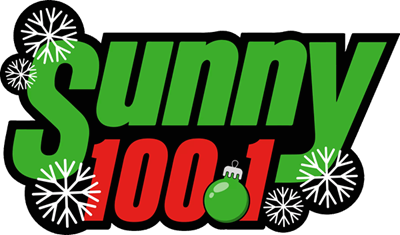
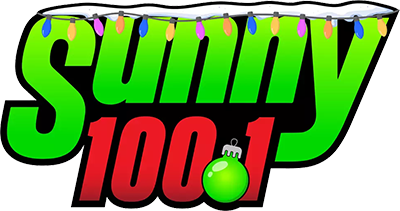
ho ho ho

diff --git a/web/stations/stations-america.js b/web/stations/stations-america.js
@@ -4846,7 +4846,7 @@ var stations = {
         },
         {
             name: "Sunny 99.9",
-            logo: "stations/images-america/texas/el_paso/Sunny 99.9.png",
+            logo: "stations/images-america/texas/el_paso/Sunny 99.9_christmas.png",
             url: "https://stream.revma.ihrhls.com/zc3188/hls.m3u8"
         },
         {
@@ -5388,7 +5388,7 @@ var stations = {
         },
         {
             name: "KOOL 104.5",
-            logo: "stations/images-america/farmington/KOOL 104.5.png",
+            logo: "stations/images-america/farmington/KOOL 104.5_christmas.png",
             url: "https://stream.revma.ihrhls.com/zc5088/hls.m3u8"
         },
         {
@@ -21854,7 +21854,7 @@ var stations_c2c = {
         },
         {
             name: "Sunny 98.5",
-            logo: "stations/images-america/c2c/panama_city_fl/Sunny 98.5.png",
+            logo: "stations/images-america/c2c/panama_city_fl/Sunny 98.5_christmas.png",
             url: "https://stream.revma.ihrhls.com/zc2800/hls.m3u8"
         },
         {
@@ -22138,7 +22138,7 @@ var stations_c2c = {
         },
         {
             name: "103Q",
-            logo: "stations/images-america/c2c/jacksonville_fl/103Q.png",
+            logo: "stations/images-america/c2c/jacksonville_fl/103Q_christmas.png",
             url: "https://stream.revma.ihrhls.com/zc6859/hls.m3u8"
         },
         {
@@ -23934,7 +23934,7 @@ var stations_c2c = {
         },
         {
             name: "104.3 WBBQ",
-            logo: "stations/images-america/c2c/augusta_ga/104.3 WBBQ.png",
+            logo: "stations/images-america/c2c/augusta_ga/104.3 WBBQ_christmas.png",
             url: "https://stream.revma.ihrhls.com/zc757/hls.m3u8"
         },
         {
@@ -24016,7 +24016,7 @@ var stations_c2c = {
         },
         {
             name: "Sunny 100.1",
-            logo: "stations/images-america/c2c/columbus_ga/Sunny 100.1.png",
+            logo: "stations/images-america/c2c/columbus_ga/Sunny 100.1_christmas.png",
             url: "https://stream.revma.ihrhls.com/zc781/hls.m3u8"
         },
         {
@@ -24205,7 +24205,7 @@ var stations_c2c = {
         },
         {
             name: "98.7 The River",
-            logo: "stations/images-america/c2c/savannah_ga/98.7 The River.png",
+            logo: "stations/images-america/c2c/savannah_ga/98.7 The River_christmas.png",
             url: "https://stream.revma.ihrhls.com/zc797/hls.m3u8"
         },
         {
@@ -24312,7 +24312,7 @@ var stations_c2c = {
         },
         {
             name: "Magic 98.1",
-            logo: "stations/images-america/c2c/statesboro_ga/Magic 98.1.png",
+            logo: "stations/images-america/c2c/statesboro_ga/Magic 98.1png",
             url: "https://ice64.securenetsystems.net/WEDB"
         },
         {
@@ -25359,7 +25359,7 @@ var stations_c2c = {
         },
         {
             name: "107.3 WSJY",
-            logo: "stations/images-america/c2c/madison_wi/107.3 WSJY.png",
+            logo: "stations/images-america/c2c/madison_wi/107.3 WSJY_christmas.png",
             url: "https://ats-radio.herokuapp.com/index.php?ats=https://live.wostreaming.net/direct/magnumbroadcasting-wsjyfmaac-ibc1"
         },
         {
@@ -26150,7 +26150,7 @@ var stations_c2c = {
         },
         {
             name: "Mix 96",
-            logo: "stations/images-america/c2c/davenport_ia/Mix 96.png",
+            logo: "stations/images-america/c2c/davenport_ia/Mix 96_christmas.png",
             url: "https://stream.revma.ihrhls.com/zc3658/hls.m3u8"
         },
         {
@@ -28534,7 +28534,7 @@ var stations_c2c = {
         },
         {
             name: "94.1 The Wave",
-            logo: "stations/images-america/c2c/bangor_me/94.1 The Wave.png",
+            logo: "stations/images-america/c2c/bangor_me/94.1 The Wave_christmas.png",
             url: "https://ais-sa1.streamon.fm/7672_48k.aac"
         },
         {
@@ -29603,7 +29603,7 @@ var stations_c2c = {
         },
         {
             name: "100.3 WNIC",
-            logo: "stations/images-america/c2c/detroit_mi/100.3 WNIC.png",
+            logo: "stations/images-america/c2c/detroit_mi/100.3 WNIC_christmas.png",
             url: "https://stream.revma.ihrhls.com/zc1153/hls.m3u8"
         },
         {
@@ -29835,7 +29835,7 @@ var stations_c2c = {
         },
         {
             name: "Star 105.7",
-            logo: "stations/images-america/c2c/grand_rapids_mi/Star 105.7.png",
+            logo: "stations/images-america/c2c/grand_rapids_mi/Star 105.7_christmas.png",
             url: "https://stream.revma.ihrhls.com/zc1169/hls.m3u8"
         },
         {
@@ -30494,7 +30494,7 @@ var stations_c2c = {
         },
         {
             name: "KOOL 108",
-            logo: "stations/images-america/c2c/minneapolis_mn/Kool 108.png",
+            logo: "stations/images-america/c2c/minneapolis_mn/Kool 108_christmas.png",
             url: "https://stream.revma.ihrhls.com/zc1217/hls.m3u8"
         },
         {
@@ -31199,10 +31199,10 @@ var stations_c2c = {
         },
         {
             name: "Mix 98.7",
-            logo: "stations/images-america/c2c/jackson_ms/Mix 98.7.png",
+            logo: "stations/images-america/c2c/jackson_ms/Mix 98.7_christmas.png",
             url: "https://live.wostreaming.net/manifest/newsouth-wjkkfmaac-ibc3"
-        },
         {
+        },
             name: "99 Jams",
             logo: "stations/images-america/c2c/jackson_ms/99 Jams.png",
             url: "https://ats-radio.herokuapp.com/index.php?ats=https://live.wostreaming.net/direct/alphacorporate-wjmifmaac-ibc4"
@@ -32182,7 +32182,7 @@ var stations_c2c = {
         },
         {
             name: "105.9 KGBX",
-            logo: "stations/images-america/c2c/springfield_mo/105.9 KGBX.png",
+            logo: "stations/images-america/c2c/springfield_mo/105.9 KGBX_christmas.png",
             url: "https://stream.revma.ihrhls.com/zc1261/hls.m3u8"
         },
         {
@@ -32795,7 +32795,7 @@ var stations_c2c = {
         },
         {
             name: "98.3 TRY",
-            logo: "stations/images-america/c2c/albany_ny/98.3 TRY.png",
+            logo: "stations/images-america/c2c/albany_ny/98.3 TRY_christmas.png",
             url: "https://stream.revma.ihrhls.com/zc1437/hls.m3u8"
         },
         {
@@ -33614,7 +33614,7 @@ var stations_c2c = {
         },
         {
             name: "Q92",
-            logo: "stations/images-america/c2c/poughkeepsie_ny/Q92.png",
+            logo: "stations/images-america/c2c/poughkeepsie_ny/Q92_christmas.png",
             url: "https://stream.revma.ihrhls.com/zc1489/hls.m3u8"
         },
         {
@@ -35147,7 +35147,7 @@ var stations_c2c = {
         },
         {
             name: "104.3 Cities FM",
-            logo: "stations/images-america/c2c/grand_forks_nd/104.3 Cities FM.png",
+            logo: "stations/images-america/c2c/grand_forks_nd/104.3 Cities FM_christmas.png",
             url: "https://playerservices.streamtheworld.com/api/livestream-redirect/KZLTFMAAC_SC"
         },
         {
@@ -35679,7 +35679,7 @@ var stations_c2c = {
         },
         {
             name: "93.3 The Bus",
-            logo: "stations/images-america/c2c/columbus_oh/93.3 The Bus.png",
+            logo: "stations/images-america/c2c/columbus_oh/93.3 The Bus_christmas.png",
             url: "https://stream.revma.ihrhls.com/zc1761/hls.m3u8"
         },
         {
@@ -35978,7 +35978,7 @@ var stations_c2c = {
         },
         {
             name: "Mix 103.3",
-            logo: "stations/images-america/c2c/lima_oh/Mix 103.3.png",
+            logo: "stations/images-america/c2c/lima_oh/Mix 103.3_christmas.png",
             url: "https://stream.revma.ihrhls.com/zc1825/hls.m3u8"
         },
         {
@@ -36085,7 +36085,7 @@ var stations_c2c = {
         },
         {
             name: "101.5 The River",
-            logo: "stations/images-america/c2c/toledo_oh/101.5 The River.png",
+            logo: "stations/images-america/c2c/toledo_oh/101.5 The River_christmas.png",
             url: "https://stream.revma.ihrhls.com/zc1853/hls.m3u8"
         },
         {
@@ -36182,7 +36182,7 @@ var stations_c2c = {
         },
         {
             name: "MIX 98.9",
-            logo: "stations/images-america/c2c/youngstown_oh/MIX 98.9.png",
+            logo: "stations/images-america/c2c/youngstown_oh/MIX 98.9_christmas.png",
             url: "https://stream.revma.ihrhls.com/zc2772/hls.m3u8"
         },
         {
@@ -38180,7 +38180,7 @@ var stations_c2c = {
         },
         {
             name: "Y102.5",
-            logo: "stations/images-america/c2c/charleston_sc/Y102.5.png",
+            logo: "stations/images-america/c2c/charleston_sc/Y102.5_christmas.png",
             url: "https://stream.revma.ihrhls.com/zc2065/hls.m3u8"
         },
         {
@@ -40150,7 +40150,7 @@ var stations_c2c = {
         },
         {
             name: "Mix 93.1",
-            logo: "stations/images-america/c2c/harrisonburg_va/Mix 93.1.png",
+            logo: "stations/images-america/c2c/harrisonburg_va/Mix 93.1_christmas.png",
             url: "https://stream.revma.ihrhls.com/zc2437/hls.m3u8"
         },
         {
@@ -41099,7 +41099,7 @@ var stations_c2c = {
         },
         {
             name: "Rewind 92.1",
-            logo: "stations/images-america/c2c/madison_wi/Rewind 92.1.png",
+            logo: "stations/images-america/c2c/madison_wi/Rewind 92.1_christmas.png",
             url: "https://stream.revma.ihrhls.com/zc2665/hls.m3u8"
         },
         {
@@ -41194,7 +41194,7 @@ var stations_c2c = {
         },
         {
             name: "Mix 105.1",
-            logo: "stations/images-america/c2c/madison_wi/Mix 105.1.png",
+            logo: "stations/images-america/c2c/madison_wi/Mix 105.1_christmas.png",
             url: "https://ats-radio.herokuapp.com/index.php?ats=https://live.amperwave.net/manifest/audacy-wmhxfmaac-imc"
         },
         {
@@ -41209,7 +41209,7 @@ var stations_c2c = {
         },
         {
             name: "107.3 WSJY",
-            logo: "stations/images-america/c2c/madison_wi/107.3 WSJY.png",
+            logo: "stations/images-america/c2c/madison_wi/107.3 WSJY_christmas.png",
             url: "https://ats-radio.herokuapp.com/index.php?ats=https://live.wostreaming.net/direct/magnumbroadcasting-wsjyfmaac-ibc1"
         },
         {
